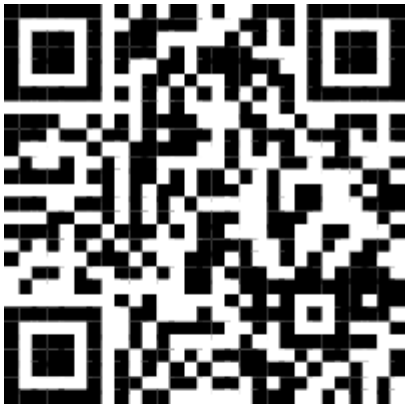
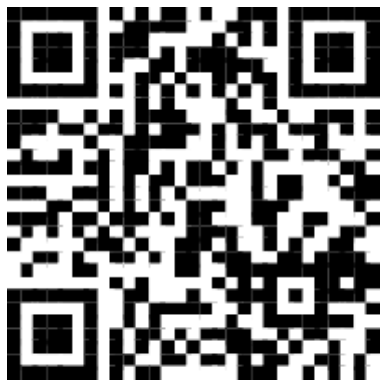
teksti ja qr-koodi päivitetty

diff --git a/src/App.js b/src/App.js
@@ -7,13 +7,13 @@ function App() {
   return (
     <div className="App">
       <div id="logo">
-      <img src={meininki} alt="Meinkinki logo" id="meininki" />
+        <img src={meininki} alt="Meinkinki logo" id="meininki" />
       </div>
       <div className="box">
         <div className="text">
-          <h1>Lue QR-koodi</h1>
-          <p>Skannaa Android-puhelimellasi tämän QR-koodin Expo-mobiilisovelluksella ladataksesi projektin.</p>
-          <p><b>ENEMMÄN TIETOA APPISTA??</b></p> <p>Lorem ipsum dolor sit amet consectetur adipisicing elit. Explicabo harum, quam aliquam perspiciatis aspernatur id quos sunt in assumenda. Dolorem iure possimus quidem labore magni quod nisi nesciunt ducimus maxime.</p>
+          <h1>Pääkaupunkiseudun tapahtumat puhelimessasi!</h1>
+          <p>Meininki on sovellus pääkaupunkiseudun tapahtumista ja aktiviteeteista. Näet tulevat tapahtumat ja aktiviteetit syötteenä tai voit hakea itsellesi sopivia joko päivämäärän tai sanahaun perusteella.</p>
+          <p>Meininki-sovelluksen saat käyttöösi skannaamalla Android-puhelimellasi oheisen QR-koodin. Lataaminen vaatii Expo-mobiilisovelluksen.</p>
         </div>
         <div className="image">
           <img src={qr} alt="QR-koodi" className="qrImg" />
